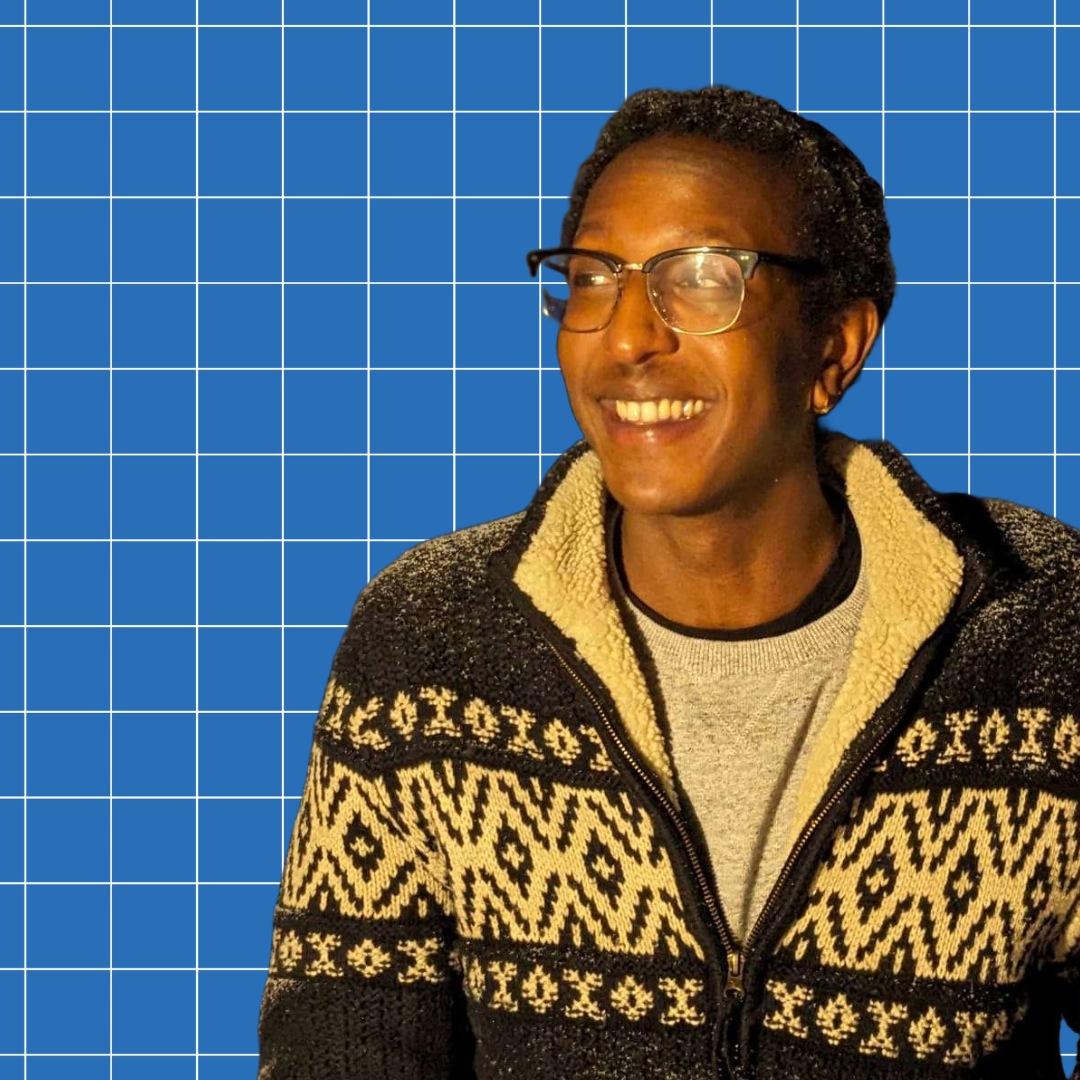
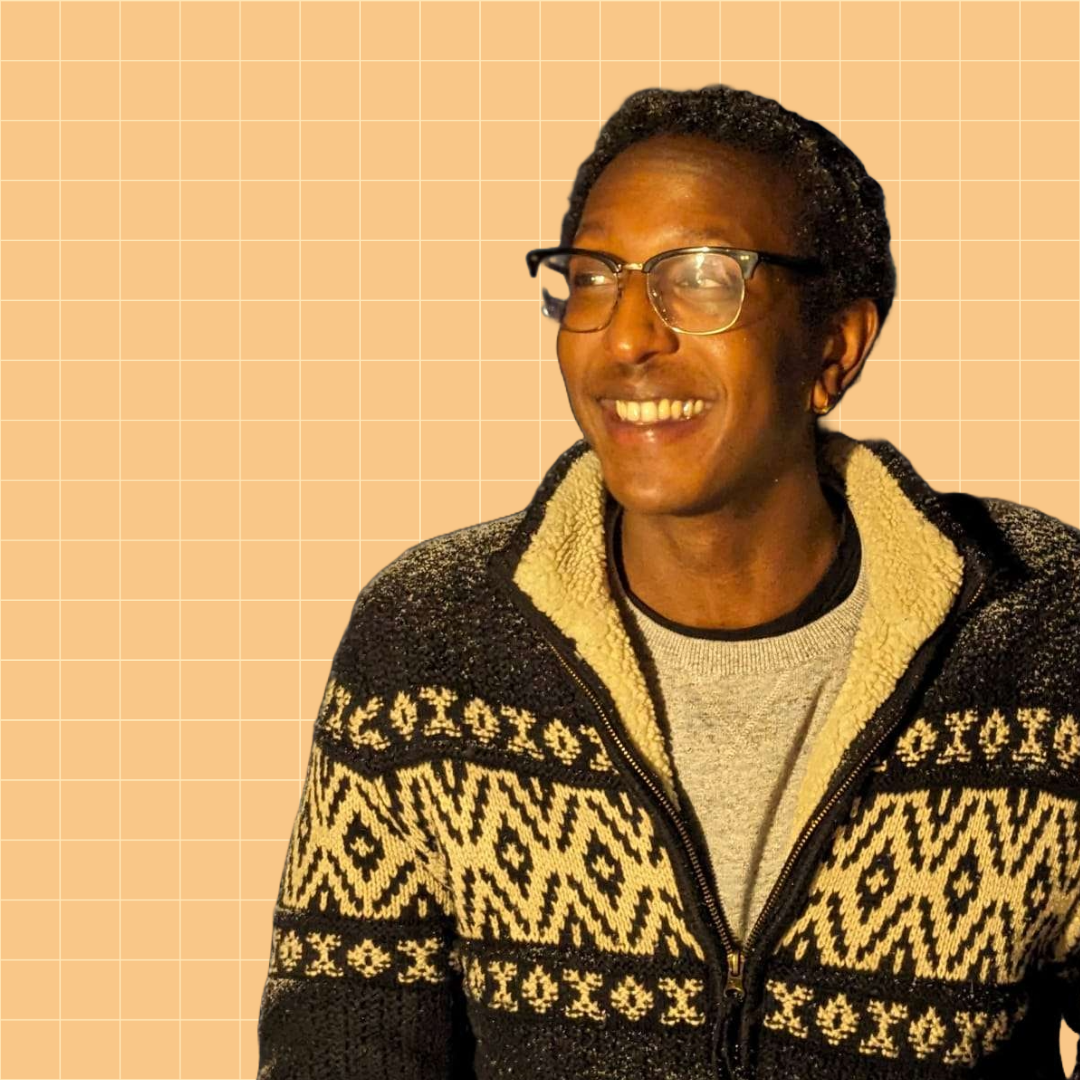
restyled tutors section, now colorised

diff --git a/index.html b/index.html
@@ -98,38 +98,41 @@
     </section>
     
     <!-------------- Tutors  ---------------->
-    <section class="tutors clearfix clear" id="tutors">
-        <div class="item" data-aos="fade-down"  data-aos-duration="1000">
-            <h2>Meet your tutors!</h2>
-        </div>
+    <div class="color-container">
+        <section class="tutors clearfix clear" id="tutors">
+            <div class="item" data-aos="fade-down" data-aos-duration="1000">
+                <h2>Meet your tutors!</h2>
+            </div>
     
-        <!-- Jolyssa -->
-        <div class="tutor">
-            <div class="item" data-aos="fade-down"  data-aos-duration="1000">
-                <div class="tutor-img">
-                    <img src="attr/jojo grid.png" alt="#">
+            <!-- Jolyssa -->
+            <div class="tutor">
+                <div class="item" data-aos="fade-down" data-aos-duration="1000">
+                    <div class="tutor-img">
+                        <img src="attr/jojo grid.png" alt="#">
+                    </div>
+                </div>
+                <div class="item" data-aos="fade-down" data-aos-duration="1000">
+                    <h3>Jolyssa Elephant</h3>
+                    <p>
+                        Although quiet by nature, she will ensure that she does the best of her ability to get you the help
+                        you need.
+                    </p>
                 </div>
             </div>
-            <div class="item" data-aos="fade-down"  data-aos-duration="1000">
-                <h3>Jolyssa Elephant</h3>
-                <p>
-                    Although quiet by nature, she will ensure that she does the best of her ability to get you the help you need.
-                </p>
-            </div>
-        </div>
     
-        <!-- Elvin -->
-        <div class="tutor">
-            <div class="item" data-aos="fade-down"  data-aos-duration="1000">
-                <div class="tutor-img">
-                    <img src="attr/elvin grid.png" alt="#">
+            <!-- Elvin -->
+            <div class="tutor">
+                <div class="item" data-aos="fade-down" data-aos-duration="1000">
+                    <div class="tutor-img">
+                        <img src="attr/elvin grid.png" alt="#">
+                    </div>
                 </div>
-            </div>
-            <div class="item" data-aos="fade-down"  data-aos-duration="1000">
-                <h3>Elvin Elephant</h3>
-                <p>
-                    Proficient in both Math and Science, you are guaranteed to get your questions answered.
-                </p>
+                <div class="item" data-aos="fade-down" data-aos-duration="1000">
+                    <h3>Elvin Elephant</h3>
+                    <p>
+                        Proficient in both Math and Science, you are guaranteed to get your questions answered.
+                    </p>
+                </div>
             </div>
         </div>
     </section>

diff --git a/css/style.css b/css/style.css
@@ -284,16 +284,20 @@ header a:hover {
 
 .tutors h2 {
     font: bold var(--40px) var(--space-mono);
-    text-transform: uppercase;
     text-align: center;
+    color: rgb(249, 237, 214);
+    padding: 2rem 0;
 }
 
-.tutors h2, .tutors h3 {
-    color: rgb(244, 193, 99);
+.tutors h3 {
+    color: rgb(250, 226, 182);
+    padding-top: 2rem;
 }
 
 .tutors p {
     font-size: var(--22px);
+    color: white;
+    letter-spacing: 2px;
 }
 
 .tutor {
